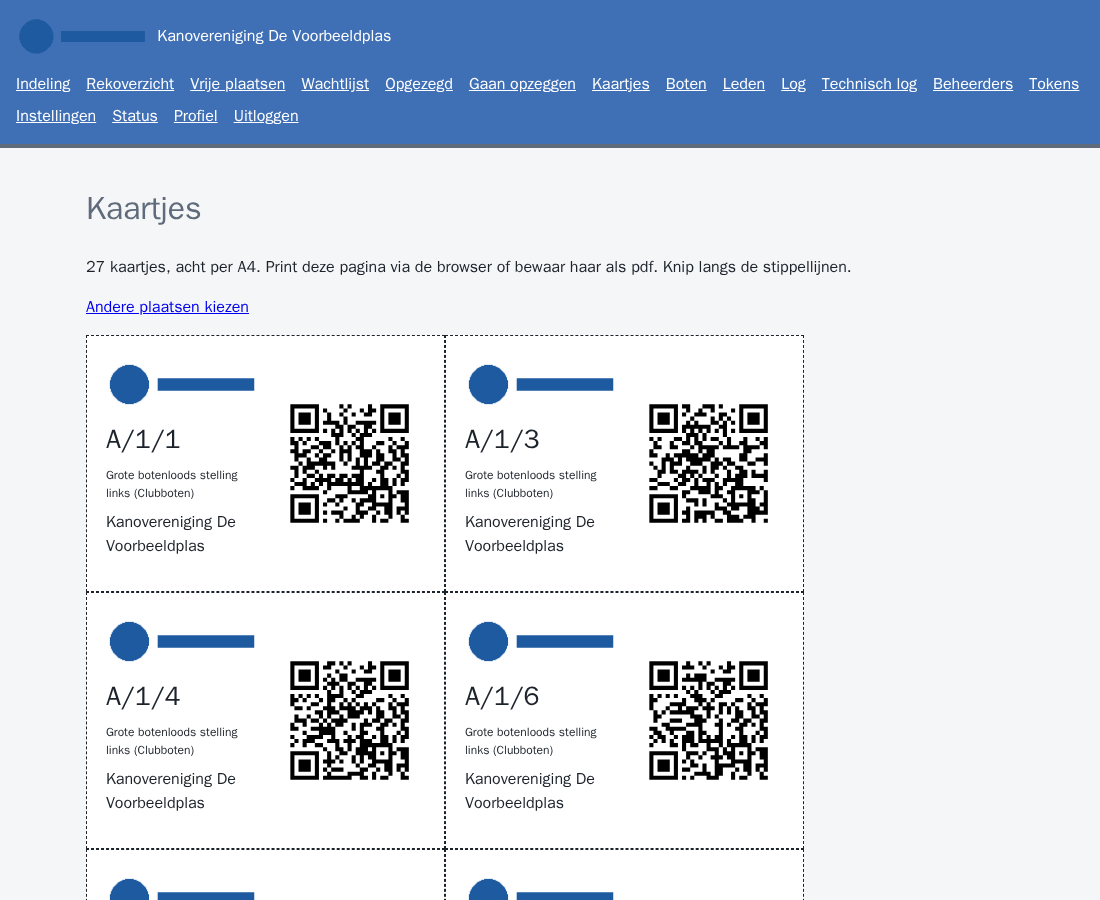
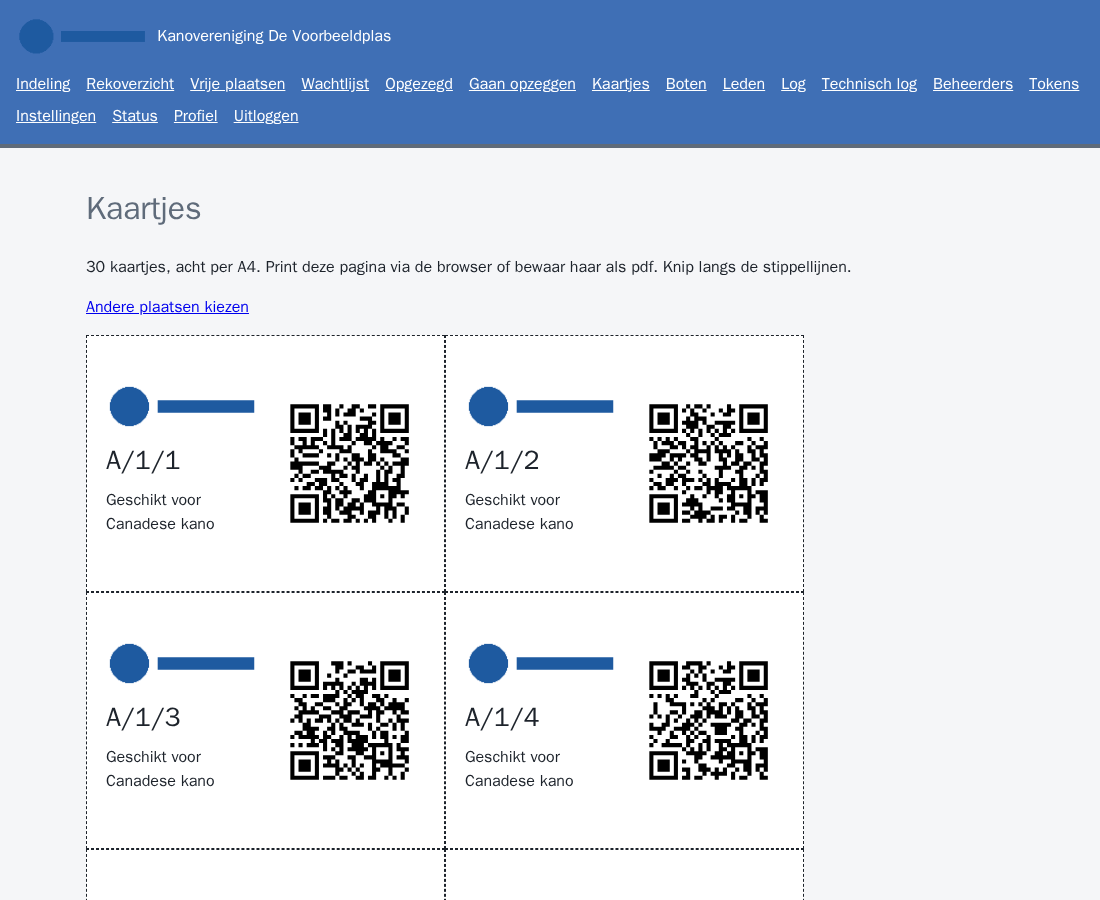
Kaartje met de bootsoorten van de plaats, zonder rekomschrijving en eigenaar (issue #143) (#152)
Het kaartje toont logo, aanduiding, "Geschikt voor" met de bootsoorten van
de plaats (op id, met een schuine streep) en de QR-code. De omschrijving
van het rek, de eigenaar, "vrij" en de naam van de vereniging bij een
clubplaats gaan eraf. BLB-021, intakestory 11, handleiding en
schermafbeelding bijgewerkt.

Review: Sentinel, akkoord

diff --git a/app/web/templates/kaartjes_print.html b/app/web/templates/kaartjes_print.html
@@ -1,5 +1,5 @@
 {% extends "base.html" %}
-{# Alleen plaatscode, omschrijving van het rek, naam van de eigenaar (of vrij, of de vereniging) en de QR-code (BLB-021). #}
+{# Alleen logo, plaatscode, de bootsoorten van de plaats en de QR-code (BLB-021, issue #143). #}
 {% block titel %}Kaartjes · {{ vereniging }}{% endblock %}
 {% block inhoud %}
 <div class="niet-printen">
@@ -14,8 +14,7 @@
     <div>
       {% if logo %}<img class="kaartje-logo" src="{{ url_for('web.logo', kenmerk=logo) }}" alt="{{ vereniging }}">{% else %}<p>{{ vereniging }}</p>{% endif %}
       <p class="kaartje-code">{{ k.code }}</p>
-      {% if k.omschrijving %}<p class="kaartje-omschrijving">{{ k.omschrijving }}</p>{% endif %}
-      <p class="kaartje-eigenaar">{{ vereniging if k.club else k.eigenaar or 'vrij' }}</p>
+      {% if k.bootsoorten %}<p class="kaartje-soorten">Geschikt voor {{ k.bootsoorten|join('/') }}</p>{% endif %}
     </div>
     <div role="img" aria-label="QR-code naar de openbare pagina van {{ k.code }}">{{ qr(k.sleutel)|safe }}</div>
   </section>

diff --git a/app/web/static/stijl.css b/app/web/static/stijl.css
@@ -104,8 +104,7 @@ dd { margin: 0; }
 .kaartje p { margin: 0 0 2mm; }
 .kaartje-logo { display: block; max-width: 100%; max-height: 15mm; margin-bottom: 3mm; }
 .kaartje-code { font-size: 20pt; font-weight: 700; }
-.kaartje-omschrijving { font-size: 9pt; }
-.kaartje-eigenaar { font-size: 12pt; }
+.kaartje-soorten { font-size: 12pt; }
 .qr-kaartje { display: block; width: 40mm; height: 40mm; }
 @media print {
   .kop, .niet-printen, .melding { display: none; }

diff --git a/tests/unit/test_kaartjes.py b/tests/unit/test_kaartjes.py
@@ -27,32 +27,39 @@ def qr_van(url):
     return qr_pad(segno.make(url, error="m").svg_inline(svgclass="qr-kaartje"))
 
 
-def test_kaartje_met_logo_code_eigenaar_en_qr_naar_openbare_pagina(app, ingelogd, tmp_path):  # noqa: F811
+def test_kaartje_met_logo_code_bootsoort_en_qr_naar_openbare_pagina(app, ingelogd, tmp_path):  # noqa: F811
     kenmerk, _ = logo_uit_installatie(app, tmp_path, png())
     _vrij, bezet, _club, _c11, _anna = loods()
+    indeling.rek_wijzigen(bezet.rek_id, "A", "Grote botenloods stelling links", CLI)
     r = ingelogd.get(f"/kaartjes/print?plaats={bezet.id}")
     assert r.status_code == 200
     kaart = kaartjes(r.text)["A/1/2"]
-    assert f'src="/logo/{kenmerk}"' in kaart and ">A/1/2<" in kaart and "Anna de Vries" in kaart
+    assert f'src="/logo/{kenmerk}"' in kaart and ">A/1/2<" in kaart
+    assert '<p class="kaartje-soorten">Geschikt voor Kajak</p>' in kaart
     assert qr_pad(kaart) == qr_van(f"http://localhost:8080/p/{bezet.publieke_sleutel}")
-    # Geen adres, telefoon, e-mail, lidnummer of boot (overlay §8); de QR-code zelf zonder tekst.
-    for verboden in ("Proefweg", "06-0000", "@example.org", "1001", "Zeemeeuw"):
+    # Geen eigenaar en geen omschrijving van het rek (issue #143); geen adres, telefoon, e-mail,
+    # lidnummer of boot (overlay §8); de QR-code zelf zonder tekst.
+    for verboden in ("Anna de Vries", "Grote botenloods", "Proefweg", "06-0000", "@example.org",
+                     "1001", "Zeemeeuw"):
         assert verboden not in r.text
     assert "<title" not in kaart.split("<svg", 1)[1]
 
 
-def test_vrije_plaats_en_clubplaats(ingelogd):  # noqa: F811
+def test_bootsoorten_op_id_zonder_eigenaar_vrij_of_vereniging(ingelogd):  # noqa: F811
     _vrij, _bezet, club, _c11, _anna = loods()
-    lege_club = plaats("A/1/5", club=True)
+    zonder = indeling.rek_aanmaken("B", "", {(1, 1)}, CLI)  # een nieuw vak heeft geen bootsoort
     toewijzing.toewijzen(club.id, boot(None, "Surfski", "Clubski").id, CLI)
     instellingen.opslaan("KV De Fuut", "#1a4d2e", "#333333", CLI)
-    kaarten = kaartjes(ingelogd.get(f"/kaartjes/print?rek={club.rek_id}").text)
-    eigenaren = {code: re.search(r'kaartje-eigenaar">([^<]*)<', html).group(1)
-                 for code, html in kaarten.items()}
-    assert eigenaren == {"A/1/1": "vrij", "A/1/2": "Anna de Vries", "A/1/3": "KV De Fuut",
-                         "A/1/4": "vrij", lege_club.code: "KV De Fuut"}
-    # Zonder logo de naam van de vereniging bovenaan (BLB-027 criterium 3).
+    kaarten = kaartjes(ingelogd.get(f"/kaartjes/print?rek={club.rek_id}&rek={zonder.id}").text)
+    soorten = {code: re.findall(r'kaartje-soorten">([^<]*)<', html) for code, html in kaarten.items()}
+    assert soorten == {"A/1/1": ["Geschikt voor Kajak/Surfski"], "A/1/2": ["Geschikt voor Kajak"],
+                       "A/1/3": ["Geschikt voor Surfski"], "A/1/4": ["Geschikt voor C11"],
+                       "B/1/1": []}  # zonder bootsoort geen regel
+    for html in kaarten.values():
+        assert "vrij" not in html and "Anna de Vries" not in html and "kaartje-eigenaar" not in html
+    # Zonder logo de naam van de vereniging bovenaan (BLB-027 criterium 3), en alleen daar.
     assert "<p>KV De Fuut</p>" in kaarten["A/1/1"] and "kaartje-logo" not in kaarten["A/1/1"]
+    assert all(html.count("KV De Fuut") == 1 for html in kaarten.values())
 
 
 def test_selectie_een_meerdere_per_rek_en_alle_in_volgorde_van_de_loods(ingelogd):  # noqa: F811

diff --git a/tests/e2e/test_kaartjes.py b/tests/e2e/test_kaartjes.py
@@ -48,7 +48,7 @@ def test_kaartjes_kiezen_printen_en_qr_openen(page, playwright, browser, base_ur
     omschrijving = "Proefstelling links bij de deur, tot 60 tekens lang gehouden"
     bezet, vrij, club = f"{rek}/1/1", f"{rek}/1/2", f"{rek}/1/3"
     rek_aanmaken(page, rek, vakken=((1, 1), (1, 2), (1, 3)), omschrijving=omschrijving)
-    plaats_instellen(page, bezet, ["Kajak"])
+    plaats_instellen(page, bezet, ["Kajak", "Canadese kano"])
     plaats_instellen(page, vrij, ["Kajak"])
     plaats_instellen(page, club, ["Kajak"], club=True)
     boot_vastleggen(page, bootnaam, "Kajak", eigenaar_index=2)
@@ -62,25 +62,25 @@ def test_kaartjes_kiezen_printen_en_qr_openen(page, playwright, browser, base_ur
     expect(page.get_by_role("alert")).to_have_text(
         "Kies een of meer plaatsen, een rek of alle plaatsen.")
 
-    # Eén plaats: logo, code, eigenaar en QR-code; geen andere persoonsgegevens.
+    # Eén plaats: logo, code, bootsoorten en QR-code; geen eigenaar, geen omschrijving van het rek
+    # en geen andere persoonsgegevens (issue #143).
     kiezen(page, bezet)
     expect(page.locator("section.kaartje")).to_have_count(1)
     een = kaartje(page, bezet)
     expect(een.locator("img.kaartje-logo")).to_be_visible()
-    expect(een.locator(".kaartje-eigenaar")).to_have_text(prive["naam"])
-    expect(een.locator(".kaartje-omschrijving")).to_have_text(omschrijving)  # BLB-021
+    expect(een.locator(".kaartje-soorten")).to_have_text("Geschikt voor Kajak/Canadese kano")
     expect(een.get_by_role("img", name=f"QR-code naar de openbare pagina van {bezet}")).to_be_visible()
     html = page.content()
-    for veld in ("lidnummer", "adres", "telefoon", "email"):
+    for veld in ("naam", "lidnummer", "adres", "telefoon", "email"):
         assert prive[veld] not in html, veld
-    assert bootnaam not in html
+    assert bootnaam not in html and omschrijving not in html
     qr = een.locator("svg.qr-kaartje path").get_attribute("d")
 
     # Per rek: vrije plaats en clubplaats; past op A4 in Chromium.
     kiezen(page, f"Heel {rek}")
     expect(page.locator(".kaartje-code")).to_have_text([bezet, vrij, club])
-    expect(kaartje(page, vrij).locator(".kaartje-eigenaar")).to_have_text("vrij")
-    expect(kaartje(page, club).locator(".kaartje-eigenaar")).to_have_text(vereniging)
+    expect(kaartje(page, vrij).locator(".kaartje-soorten")).to_have_text("Geschikt voor Kajak")
+    expect(kaartje(page, club)).not_to_contain_text(vereniging)  # de naam staat alleen bij het logo
     past_op_a4(page)
     per_rek = page.url
 

diff --git a/tests/e2e/test_indeling.py b/tests/e2e/test_indeling.py
@@ -74,7 +74,8 @@ def test_rek_gat_en_boot_uitzetten_geweigerd_kaartje_en_openbare_pagina(page, br
     sectie_van(page, rek).get_by_role("link", name=f"{rek}/2/4", exact=True).click()
     expect(page.get_by_label("Kajak", exact=True)).to_be_checked()
 
-    # Het kaartje van de plaats: aanduiding, omschrijving en eigenaar, geen andere gegevens.
+    # Het kaartje van de plaats: aanduiding en bootsoort; geen omschrijving, geen eigenaar en geen
+    # andere gegevens (issue #143).
     page.goto("/kaartjes")
     page.get_by_label(code, exact=True).check()
     page.get_by_role("button", name="Kaartjes maken").click()
@@ -82,12 +83,11 @@ def test_rek_gat_en_boot_uitzetten_geweigerd_kaartje_en_openbare_pagina(page, br
     kaartje = page.locator("section.kaartje")
     expect(kaartje).to_have_count(1)
     expect(kaartje.locator(".kaartje-code")).to_have_text(code)
-    expect(kaartje.locator(".kaartje-omschrijving")).to_have_text(omschrijving)
-    expect(kaartje.locator(".kaartje-eigenaar")).to_have_text(prive["naam"])
+    expect(kaartje.locator(".kaartje-soorten")).to_have_text("Geschikt voor Kajak")
     html = page.content()
-    for veld in ("lidnummer", "adres", "telefoon", "email"):
+    for veld in ("naam", "lidnummer", "adres", "telefoon", "email"):
         assert prive[veld] not in html, veld
-    assert bootnaam not in html
+    assert bootnaam not in html and omschrijving not in html
 
     # De link uit de QR-code, als bezoeker zonder inloggen: aanduiding en omschrijving, en in de
     # hele respons geen adres, telefoon, e-mail of lidnummer.

diff --git a/tests/unit/test_web_beheer.py b/tests/unit/test_web_beheer.py
@@ -236,21 +236,20 @@ def test_openbare_pagina_alleen_openbare_gegevens(client):
 
 
 def test_omschrijving_op_openbare_pagina_plaatsdetail_en_kaartje(ingelogd, client):
-    """BLB-020, BLB-021: de omschrijving van het rek staat op de openbare pagina en het kaartje,
-    en wordt als tekst getoond (geen opmaak)."""
+    """BLB-020, BLB-021: de omschrijving van het rek staat op de openbare pagina, als tekst (geen
+    opmaak), en niet meer op het kaartje (issue #143)."""
     p = bezette_plaats()
     ingelogd.post(f"/rekken/{p.rek_id}/naam", data={"naam": "A", "omschrijving": "Stelling <b>links</b>"})
     openbaar = client.get(f"/p/{p.publieke_sleutel}").text
     assert "<p>Stelling &lt;b&gt;links&lt;/b&gt;</p>" in openbaar
     assert "Stelling &lt;b&gt;links&lt;/b&gt;" in ingelogd.get(f"/plaatsen/{p.id}").text
     kaartje = ingelogd.get(f"/kaartjes/print?plaats={p.id}").text
-    assert '<p class="kaartje-omschrijving">Stelling &lt;b&gt;links&lt;/b&gt;</p>' in kaartje
+    assert "Stelling" not in kaartje
     assert "Proefweg" not in kaartje and "Zeemeeuw" not in kaartje  # verder alleen wat mag
 
 
 def test_zonder_omschrijving_geen_lege_regel(ingelogd, client):
     p = bezette_plaats()
-    assert "kaartje-omschrijving" not in ingelogd.get(f"/kaartjes/print?plaats={p.id}").text
     assert "<p></p>" not in client.get(f"/p/{p.publieke_sleutel}").text
 
 

diff --git a/app/domein/indeling.py b/app/domein/indeling.py
@@ -302,12 +302,10 @@ def export(vereniging):
 
 
 def kaartjes(plaats_ids=(), rek_ids=(), alle=False):
-    """Alleen wat op een kaartje mag (BLB-021, overlay §8), in de volgorde van de loods. Een
-    clubplaats krijgt de naam van de vereniging (een clubboot ligt altijd op een clubplaats);
-    eigenaar is None bij een vrije plaats."""
-    return [{"code": p.code, "omschrijving": r.omschrijving, "sleutel": p.publieke_sleutel,
-             "club": p.is_clubplaats,
-             "eigenaar": p.boot.lid.naam if p.boot and p.boot.lid else None}
+    """Alleen wat op een kaartje mag (BLB-021, overlay §8), in de volgorde van de loods. Geen
+    eigenaar en geen omschrijving van het rek: die staan op de openbare pagina (issue #143)."""
+    return [{"code": p.code, "sleutel": p.publieke_sleutel,
+             "bootsoorten": [s.naam for s in p.bootsoorten]}
             for r in rekken() for p in r.plaatsen
             if alle or r.id in rek_ids or p.id in plaats_ids]
 

diff --git a/tests/unit/test_indeling_vakken.py b/tests/unit/test_indeling_vakken.py
@@ -287,11 +287,11 @@ def test_export_in_de_volgorde_van_de_loods(app):
         *[("B", f"B/1/{k}") for k in range(1, 13)], ("B", "B/2/1"), ("A", "A/1/1")]
 
 
-def test_kaartjes_en_openbare_pagina_tonen_de_omschrijving_van_het_rek(app):
+def test_openbare_pagina_toont_de_omschrijving_van_het_rek_het_kaartje_niet(app):
     r = rek(omschrijving="Grote botenloods stelling links")
     p = indeling.rek(r.id).plaatsen[0]
     [kaartje] = indeling.kaartjes(plaats_ids=[p.id])
-    assert kaartje["omschrijving"] == "Grote botenloods stelling links" and kaartje["code"] == "A/1/1"
+    assert set(kaartje) == {"code", "sleutel", "bootsoorten"} and kaartje["code"] == "A/1/1"  # #143
     assert indeling.openbaar(p.publieke_sleutel)["omschrijving"] == "Grote botenloods stelling links"
     # Er komen geen velden bij in de API (issue #80): de plaatsen houden dezelfde vijf sleutels.
     assert set(uitlezen.plaatsen()[0]) == {"code", "rek", "clubplaats", "bootsoorten", "boot"}

diff --git a/docs/product/backlog.md b/docs/product/backlog.md
@@ -1,8 +1,8 @@
 # Productbacklog botenloodsbeheer
 
 **Project:** botenloodsbeheer
-**Versie:** v0.6.2
-**Datum:** 2026-11-05
+**Versie:** v0.6.3
+**Datum:** 2026-11-06
 **Opgesteld door:** Apex, Senior Product Owner
 **Status:** Slice 1 tot en met 6 af; besluiten van de stakeholder van 2026-10-31 en ADR-012 verwerkt; issue #80 verwerkt, tot en met 2026-11-03; issue #82 verwerkt
 **Bronnen, in volgorde van gezag:** `docs/business/intake.md` (inclusief de besluiten van 2026-10-30 en 2026-10-31), `docs/PROJECT-OVERLAY.md` (§5 en §6), `docs/business/business-outline.md`. Voor het ontwerp: `docs/architecture/architectuur.md` v0.3.0 en ADR-012.
@@ -83,7 +83,7 @@ Als beheerder wil ik rekken aanmaken, hernoemen en verwijderen, met per rek verd
 - Gegeven een nieuw rek, wanneer de beheerder geen enkel vak aanzet, of verdieping 0 of 6, of vak 0 of vak 13 opgeeft, dan weigert de applicatie met een duidelijke melding. Een verdieping zonder vak dat aan staat, bestaat niet en wordt niet geweigerd (issue #82).
 - Gegeven een nieuw rek, wanneer de beheerder per verdieping een bootsoort kiest en het rek opslaat, dan heeft elke plaats van die verdieping die bootsoort als geschikte soort (BLB-002, issue #82). De keuze is niet verplicht en per verdieping is er één bootsoort; zonder keuze krijgen de plaatsen geen bootsoort (vraag 26).
 - Gegeven een reknaam die al bestaat (ook met andere hoofdletters), die langer is dan 10 tekens of die een `/` bevat, wanneer de beheerder die invoert, dan weigert de applicatie met een duidelijke melding.
-- Gegeven een rek met een omschrijving, zoals "Grote botenloods stelling links", wanneer de beheerder de indeling opent of een kaartje print, of een bezoeker de openbare pagina opent, dan staat de omschrijving bij het rek. De aanduiding houdt de korte naam, zoals `A/1/1`. De omschrijving is niet verplicht en ten hoogste 60 tekens; 61 tekens weigert de applicatie (vraag 24).
+- Gegeven een rek met een omschrijving, zoals "Grote botenloods stelling links", wanneer de beheerder de indeling opent of een bezoeker de openbare pagina opent, dan staat de omschrijving bij het rek. Op het kaartje staat ze niet (issue #143). De aanduiding houdt de korte naam, zoals `A/1/1`. De omschrijving is niet verplicht en ten hoogste 60 tekens; 61 tekens weigert de applicatie (vraag 24).
 - Gegeven een plaats, wanneer de beheerder die bewerkt, dan is de aanduiding niet los te wijzigen. Ze verandert alleen met de naam van het rek; toewijzing, publieke sleutel en instellingen blijven staan.
 - Gegeven een kaartje dat vóór een nieuwe reknaam is geprint, wanneer een bezoeker de QR-code scant, dan opent de pagina van dezelfde plaats, met de nieuwe aanduiding.
 - Gegeven een rek met een toegewezen boot, wanneer de beheerder het wil verwijderen, dan weigert de applicatie en wijst op het vrijgeven van de plaats.
@@ -135,7 +135,7 @@ Route voor een mens (issue #80):
 2. Maak rek `X` met omschrijving "Testrek bij de deur", op verdieping 1 vak 1 tot en met 4 aan en op verdieping 2 vak 1 tot en met 3 aan.
 3. Controleer dat `X/1/1` tot en met `X/1/4` en `X/2/1` tot en met `X/2/3` er staan. Zet bij een nieuw rek alleen vak 1 en 3 van een verdieping aan: de melding noemt verdieping en vak 2.
 4. Wijs een boot toe aan `X/2/3` en probeer vak 3 van verdieping 2 uit te zetten: dat wordt geweigerd.
-5. Print het kaartje van `X/2/3` en open de QR-link: kaartje en openbare pagina tonen `X/2/3` en de omschrijving.
+5. Print het kaartje van `X/2/3` en open de QR-link: het kaartje toont `X/2/3` zonder omschrijving, de openbare pagina `X/2/3` en de omschrijving.
 
 ### EP-02 Leden en boten
 
@@ -367,13 +367,13 @@ Als bezoeker wil ik van een plaats weten welke boot er hoort te liggen en wie de
 
 Prioriteit: Must. Bron: intake 11. Afhankelijk van: BLB-020, BLB-027.
 
-Als beheerder wil ik voor één, meerdere of alle plaatsen een kaartje printen met het logo van de vereniging, de aanduiding van de plaats, de naam van de eigenaar en een QR-code zodat elke plaats in de loods herkenbaar is.
+Als beheerder wil ik voor één, meerdere of alle plaatsen een kaartje printen met het logo van de vereniging, de aanduiding van de plaats, de bootsoorten van de plaats en een QR-code zodat elke plaats in de loods herkenbaar is en te zien is welke boot er past.
 
-- Gegeven een selectie van een, meerdere of alle plaatsen, wanneer de beheerder het printen start, dan komt er een printbaar document met per plaats een kaartje met logo, aanduiding, omschrijving van het rek, naam van de eigenaar en QR-code.
+- Gegeven een selectie van een, meerdere of alle plaatsen, wanneer de beheerder het printen start, dan komt er een printbaar document met per plaats een kaartje met logo, aanduiding, de regel "Geschikt voor" met de bootsoorten van de plaats (zoals "Geschikt voor Kajak/Canadese kano") en QR-code. Er staat geen omschrijving van het rek en geen naam van een eigenaar op (issue #143).
 - Gegeven een QR-code op een kaartje, wanneer een bezoeker die scant, dan opent de openbare pagina van die plaats (BLB-020).
 - Gegeven een kaartje, wanneer de beheerder het bekijkt, dan staan er geen adres, telefoonnummer of e-mailadres op.
-- Gegeven een vrije plaats, wanneer de beheerder het kaartje maakt, dan staat er de aanduiding en de vermelding vrij in plaats van een naam.
-- Gegeven een clubplaats, met of zonder clubboot, wanneer de beheerder het kaartje maakt, dan staat er de aanduiding en de naam van de vereniging in plaats van een naam van een lid (ADR-011).
+- Gegeven een vrije plaats of een clubplaats, wanneer de beheerder het kaartje maakt, dan staat er geen "vrij" en geen naam van de vereniging bij de aanduiding; de naam van de vereniging staat alleen bij het logo (issue #143).
+- Gegeven een plaats zonder bootsoort, wanneer de beheerder het kaartje maakt, dan valt de regel "Geschikt voor" weg.
 
 ### EP-07 Inloggen en beheerders
 
@@ -756,6 +756,7 @@ De stakeholder besloot deze vragen op 2026-10-31. Ze staan ook in `docs/business
 
 | Versie | Datum | Wijziging |
 |--------|-------|-----------|
+| v0.6.3 | 2026-11-06 | Issue #143: het kaartje toont de bootsoorten van de plaats, geen omschrijving van het rek en geen eigenaar (BLB-021, BLB-001) |
 | v0.6.2 | 2026-11-05 | Issue #94: een verdieping heeft geen gaten, het rekoverzicht toont alleen de kolommen en verdiepingen van het rek, 229 plaatsen (BLB-001, BLB-044) |
 | v0.6.1 | 2026-11-04 | Vraag 26 besloten: bootsoort per verdieping optioneel, één, en ook voor een vak dat later aan gaat (BLB-001, BLB-044) |
 | v0.6.0 | 2026-11-04 | Issue #82: BLB-001 krijgt een bootsoort per verdieping en een nieuw criterium 3; BLB-044 krijgt een andere melding en geen knop om een plaats te verwijderen; vraag 26 |

diff --git a/docs/business/intake.md b/docs/business/intake.md
@@ -49,7 +49,7 @@ De import van de bestaande spreadsheet volgt later en hoort niet bij de eerste v
 8. Als beheerder wil ik een plaats vrijgeven waar een boot lag.
 9. Als beheerder wil ik een overzicht van toegewezen plaatsen van leden die hebben opgezegd.
 10. Als beheerder wil ik per lid een lijst van de boten in de loods en hun plaats.
-11. Als beheerder wil ik voor één, meerdere of alle plaatsen een kaartje printen met het logo van de vereniging, de code van de plaats, de naam van de eigenaar en een QR-code. De QR-code linkt naar een pagina in de applicatie met de openbare informatie over die plaats: welke boot, de foto en de eigenaar zonder adresgegevens.
+11. Als beheerder wil ik voor één, meerdere of alle plaatsen een kaartje printen met het logo van de vereniging, de code van de plaats, de bootsoorten waarvoor de plaats geschikt is en een QR-code (gewijzigd 2026-11-06, issue #143). De QR-code linkt naar een pagina in de applicatie met de openbare informatie over die plaats: welke boot, de foto en de eigenaar zonder adresgegevens.
 12. Als beheerder wil ik de indeling van de loods beheren: rekken, plaatsen, gereserveerde plaatsen voor clubboten en welke bootsoorten op welke plaats passen.
 
 ## Besluiten en antwoorden van de stakeholder (2026-10-30)
@@ -181,3 +181,9 @@ Deze besluiten gaan voor eerdere besluiten die ermee botsen.
 ### Certificaten
 
 - De gedeelde Traefik vraagt de certificaten aan bij Let's Encrypt.
+
+### Kaartje (2026-11-06, issue #143)
+
+- Het kaartje toont geen omschrijving van het rek en geen naam van de eigenaar, ook geen "vrij" en geen naam van de vereniging bij een clubplaats. De naam van de vereniging staat al bij het logo. Wie op de plaats ligt, staat op de openbare pagina achter de QR-code.
+- Het kaartje krijgt de regel "Geschikt voor" met de namen van de bootsoorten van de plaats zoals ze in de applicatie staan, gescheiden door een schuine streep, in de volgorde van de bootsoorten (bijvoorbeeld "Geschikt voor Kajak/Canadese kano"). Heeft de plaats geen bootsoort, dan valt de regel weg.
+- De aanduiding van de plaats (zoals `A/1/1`) blijft op het kaartje.

diff --git a/documentatie/gebruikers/handleiding.md b/documentatie/gebruikers/handleiding.md
@@ -169,11 +169,11 @@ Bovenaan `/indeling` staat **Indeling exporteren naar Excel**. Je krijgt het bes
 
 Op `/kaartjes` kies je voor welke plaatsen je een kaartje wilt. Vink losse plaatsen aan, een heel rek of **Alle plaatsen**, en kies **Kaartjes maken**. Je krijgt de printpagina `/kaartjes/print` met acht kaartjes per A4, in twee kolommen en vier rijen.
 
-Elk kaartje toont het logo (zonder logo de naam van de vereniging), de aanduiding van de plaats, de omschrijving van het rek, de naam van de eigenaar en een QR-code. Bij een vrije plaats staat er "vrij", bij een clubplaats de naam van de vereniging. Adres, telefoon, e-mail en lidnummer staan er niet op.
+Elk kaartje toont het logo (zonder logo de naam van de vereniging), de aanduiding van de plaats, de bootsoorten waarvoor de plaats geschikt is (bijvoorbeeld "Geschikt voor Kajak/Canadese kano") en een QR-code. Heeft de plaats geen bootsoort, dan valt die regel weg. De omschrijving van het rek en de naam van de eigenaar staan er niet op, zodat je geen nieuw kaartje hoeft te printen als een plaats een andere boot krijgt. Wie op de plaats ligt, staat op de openbare pagina achter de QR-code. Adres, telefoon, e-mail en lidnummer staan nooit op een kaartje.
 
 Print de pagina met **Afdrukken** in de browser, of bewaar haar als pdf. Zet de schaal op 100 procent en de marges op standaard. Knip langs de stippellijnen.
 
-![De printpagina met kaartjes: logo, aanduiding, omschrijving, eigenaar en QR-code, met stippellijnen om te knippen.](afbeeldingen/kaartjes.png)
+![De printpagina met kaartjes: logo, aanduiding, bootsoorten en QR-code, met stippellijnen om te knippen.](afbeeldingen/kaartjes.png)
 
 De QR-code opent de openbare pagina van de plaats. Krijgt het rek een andere naam, dan blijft het oude kaartje naar dezelfde plaats wijzen; alleen de aanduiding op het kaartje is verouderd. Print dan een nieuw kaartje.
 
